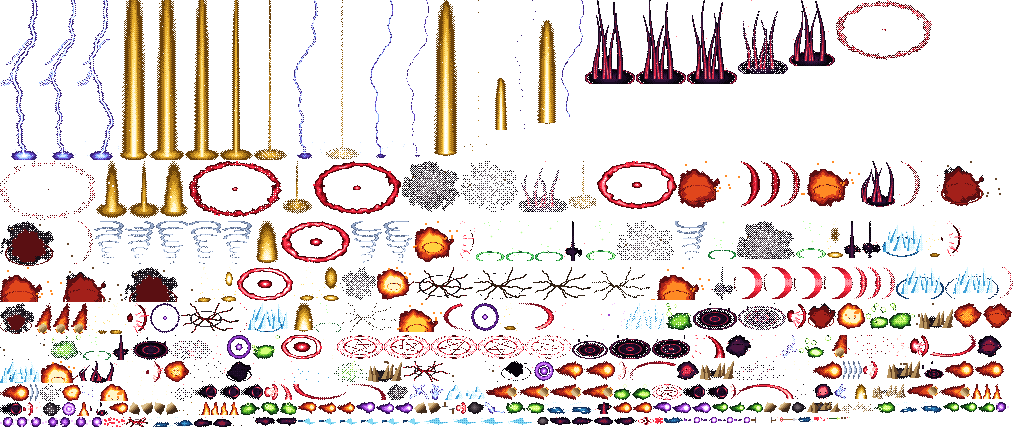
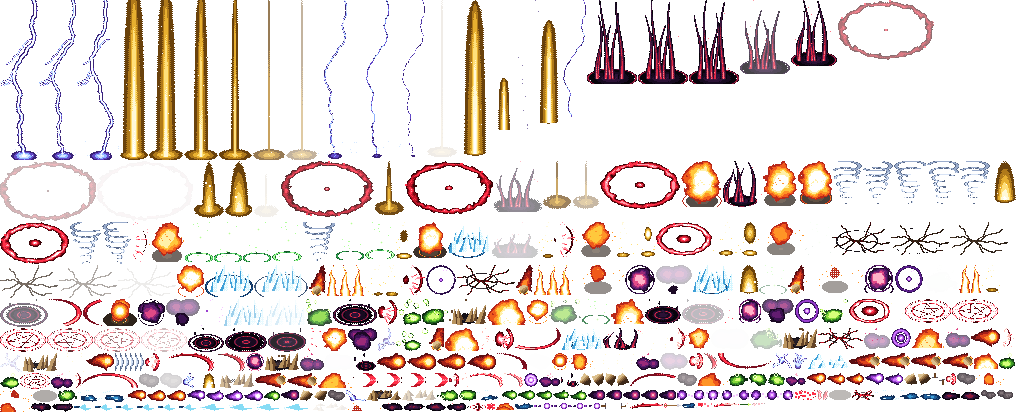
Spell effects, second pass: size, angle, cleaner animation, placement
Swipes and the moon wave lie flat over the floor, mirrored for blows to the
left and tilted a little instead of standing up on end. Explosions are a bright
fireball that climbs and burns out (no dark mass, no speckled smoke); shadow
bursts, the shadow orb and the shadow step are redrawn in violet with a crimson
rim. Fades are clean instead of scattered pixels, bands are less dithered.
In a fight every sheet snaps to the cast's pixel size (1x, 1.5x, 2x, 3x);
ground spells sit on the floor; burning ground has five tongues of fire.

Claude-Session: https://claude.ai/code/session_01U68ANvC5EPq8neAmbwhWjn

diff --git a/vesper/js/assets.js b/vesper/js/assets.js
@@ -201,8 +201,8 @@
   const SM = {
     // blows
     hit_slash: ['s_hit', 1, { dir: 1 }], v_impact: ['s_hit_heavy', 1.3, { dir: 1 }], hit_crit: ['s_crit', 1, { dir: 1 }], parry: ['s_hit_heavy', 1, { dir: 1 }],
-    v_blood: ['s_blood', 1.4, { dir: 1 }], v_slash: ['s_slash', 1.4, { dir: 1 }], katana: ['s_slash', 1.1, { dir: 1 }], arc_white: ['s_slash', 1.2, { dir: 1 }],
-    slash_arc_blood: ['s_slash_red', 1.1, { dir: 1 }], spin_slash: ['s_spin', 0.85], dissipate: ['s_smoke', 1], smoke_dark: ['s_smoke', 1.2], smoke_burst: ['s_smoke', 1.1],
+    v_blood: ['s_blood', 1.4, { dir: 1 }], v_slash: ['s_slash', 1.4], katana: ['s_slash', 1.1], arc_white: ['s_slash', 1.2],
+    slash_arc_blood: ['s_slash_red', 1.1], spin_slash: ['s_spin', 0.85], dissipate: ['s_smoke', 1], smoke_dark: ['s_smoke', 1.2], smoke_burst: ['s_smoke', 1.1],
     // earth and force
     shockwave: ['s_quake', 0.8], v_shock: ['s_quake', 0.9], v_crack: null, rock_burst: ['s_earth_burst', 0.75],
     // fire
@@ -220,13 +220,13 @@
     arrow: ['s_arrow', 1.33], dart: ['s_dart', 1.33], dagger: ['s_dagger', 1.33],
     // the Crowd Breaker sheets the films and fights named
     'cb:01_crimson_tide_cleave/caster': ['s_blood_wave', 1], 'cb:01_crimson_tide_cleave/target': ['s_crit', 1.4, { dir: 1 }], 'cb:01_crimson_tide_cleave/death': ['s_smoke', 1.4],
-    'cb:02_roaring_blade_nova/target': ['s_hit', 1.4, { dir: 1 }], 'cb:06_piercing_dash/target': ['s_slash', 1.4, { dir: 1 }], 'cb:218_sky_rend_star/target': ['s_hit_heavy', 1.4, { dir: 1 }],
+    'cb:02_roaring_blade_nova/target': ['s_hit', 1.4, { dir: 1 }], 'cb:06_piercing_dash/target': ['s_slash', 1.4], 'cb:218_sky_rend_star/target': ['s_hit_heavy', 1.4, { dir: 1 }],
     'cb:113_earthshaker_stance/target': ['s_spin', 1.2], 'cb:10_quake_stomp/target': ['s_earth_burst', 1.1], 'cb:10_quake_stomp/caster': ['s_quake', 1.1],
     'cb:08_meteor_rain/target': ['s_meteor', 0.9], 'cb:54_greater_fireball/target': ['s_fire_burst', 1.2], 'cb:183_frost_curtain/caster': ['s_frost_burst', 1.1],
     'cb:13_water_orb/target': ['s_frost_burst', 1.1], 'cb:101_skyfall_thunder/target': ['s_lightning', 0.9], 'cb:15_storm_orb/target': ['s_shock', 1.4],
     'cb:156_inner_flow_mending/caster': ['s_heal', 1.4], 'cb:11_ghostfire_hex/caster': ['s_rune', 1.4], 'cb:05_phantom_legion/caster': ['s_summon', 1.3],
     'cb:175_violet_veil/caster': ['s_vanish', 1.4], 'cb:12_golden_blessing/caster': ['s_charge', 1.4], 'cb:19_recall_beam/caster': ['s_holy_pillar', 1.0],
-    'cb:107_flashpoint_severance/target': ['s_slash', 1.4, { dir: 1 }], 'cb:43_cyclone_bolt/target': ['s_whirl', 1.2],
+    'cb:107_flashpoint_severance/target': ['s_slash', 1.4], 'cb:43_cyclone_bolt/target': ['s_whirl', 1.2],
   };
   A.SPELLMAP = SM;
   // The ground zones loop their own sheet.
@@ -239,19 +239,32 @@
     const m = SM[name]; if (m === null) return null; if (!m) return undefined;
     if (!m[0].startsWith('s_') || !spellData.fx[m[0]]) return undefined; return m;
   };
+  // Flat sheets (a sword's swipe, the moon wave) lie over the floor: mirrored for a blow to the left and tilted a little,
+  // never stood up on end. Turning sheets (the blows' splashes) take the blow's whole angle.
+  A.SPELLFLAT = { s_slash: 1, s_slash_red: 1, s_moon_wave: 1 };
+  A.SPELLDIR = { s_hit: 1, s_hit_heavy: 1, s_crit: 1, s_blood: 1 };
+  // In a fight the view sets A.gridK (its pixels per world unit): each sheet is drawn at a whole or half step of it, so
+  // its pixels are the cast's own size (or half again, or twice for the great spells), never an odd size in between.
+  A.gridK = 0;
+  const STEPS = [1, 1.5, 2, 3];
+  function snap(k) { if (!A.gridK) return k; const m = k / A.gridK; let best = 1; for (const s of STEPS) if (Math.abs(s - m) < Math.abs(best - m)) best = s; return A.gridK * best; }
   function spell(ctx, key, t, x, y, scale, alpha, angle, flip, dir) {
     const d = spellData.fx[key]; const n = d.frames.length; let i = Math.floor(t * d.fps);
     if (d.loop) i = ((i % n) + n) % n; else if (i >= n) return false;
     if (i < 0) return true;
     const f = d.frames[i]; if (!f) return true;
-    const k = scale || 1, ga = ctx.globalAlpha; if (alpha != null) ctx.globalAlpha = ga * alpha;
+    const k = snap(scale || 1), ga = ctx.globalAlpha; if (alpha != null) ctx.globalAlpha = ga * alpha;
     const sm = ctx.imageSmoothingEnabled; ctx.imageSmoothingEnabled = false;
-    const rot = dir || d.loop ? angle || 0 : 0;   // projectiles and blows turn; ground effects stand
+    const flat = A.SPELLFLAT[key], a = angle || 0, left = Math.cos(a) < 0;
+    // flat: mirror to the left, tilt by at most ~20 degrees; turning sheets and flights: the whole angle
+    const rot = flat ? Math.max(-0.35, Math.min(0.35, Math.atan2(Math.sin(a), Math.abs(Math.cos(a))) * 0.5)) * (left ? -1 : 1) : (dir || A.SPELLDIR[key] || d.loop) ? a : 0;
+    const mir = flat && left;
     const ox = f[5] * k, oy = f[6] * k, w = f[3] * k, h = f[4] * k;
-    if (!rot && !flip) ctx.drawImage(spellData.images[f[0]], f[1], f[2], f[3], f[4], Math.round(x + ox), Math.round(y + oy), Math.round(w), Math.round(h));
+    if (!rot && !flip && !mir) ctx.drawImage(spellData.images[f[0]], f[1], f[2], f[3], f[4], Math.round(x + ox), Math.round(y + oy), Math.round(w), Math.round(h));
     else {
       ctx.save(); ctx.translate(Math.round(x), Math.round(y));
-      if (rot) { const c = Math.cos(rot); ctx.rotate(rot); if (c < 0 && dir) ctx.scale(1, -1); }   // a blow struck to the left is mirrored, not drawn upside down
+      if (mir) ctx.scale(-1, 1);
+      if (rot) { ctx.rotate(rot); if (!flat && Math.cos(rot) < 0 && (dir || A.SPELLDIR[key])) ctx.scale(1, -1); }   // a splash struck to the left is mirrored, not drawn upside down
       if (flip) ctx.scale(-1, 1);
       ctx.drawImage(spellData.images[f[0]], f[1], f[2], f[3], f[4], ox, oy, w, h); ctx.restore();
     }

diff --git a/vesper/js/view.js b/vesper/js/view.js
@@ -415,7 +415,7 @@
         }
         case 'chain': R.chains.push({ pts: e.pts, t: 0 }); for (const p of e.pts.slice(1)) PK('s_shock', p[0], p[1], 22, 1.8); R.flash = 0.25; R.flashCol = '200,215,255'; R.shake = Math.max(R.shake, 4); break;
         case 'thunder': PK('s_lightning', e.x, e.y, 0, 2.0); FX({ kind: 'gring', x: e.x, y: e.y, life: 0.4, col: '#bcd4ff', r0: 6, r1: e.r * 1.4, w: 3 }); R.impactF = { t: 0, dur: 0.08, x: e.x, y: e.y, big: false }; R.shake = Math.max(R.shake, 9); break;
-        case 'strike': if (e.hand) { PK('s_quake', e.x, e.y, 0, 3.4); R.shake = Math.max(R.shake, 14); FX({ kind: 'gring', x: e.x, y: e.y, life: 0.6, col: '#ffffff', r0: 20, r1: 150, w: 4 }); FX({ kind: 'gring', x: e.x, y: e.y, life: 0.9, col: '#ff3048', r0: 10, r1: 110, w: 6 }); FX({ kind: 'gcrater', x: e.x, y: e.y, r: e.r || 50, life: 1.6 }); R.flash = Math.max(R.flash, 0.35); R.flashCol = '255,60,80'; R.punch = Math.max(R.punch || 0, 0.06); for (let i = 0; i < 18; i++) { const a = i / 18 * 6.28; P({ x: e.x + Math.cos(a) * 10, y: e.y + Math.sin(a) * 10, z: 4, vx: Math.cos(a) * (60 + Math.random() * 90), vy: Math.sin(a) * (60 + Math.random() * 90), vz: 120 + Math.random() * 160, life: 0.9, size: 2 + Math.random() * 2, col: i % 3 ? '#2a1a20' : '#ff5a6a', shape: 'sq', g: -520 }); } } if (!e.quiet) { if (e.fx === 'explosion_fire') PK('s_meteor_impact', e.x, e.y, 0, 1.6); else PK(e.fx || 'blast', e.x, e.y, e.fx === 'rock_burst' || e.fx === 'ice_shatter' || e.fx === 'frost_nova' ? 0 : 6, e.fx === 'poison_cloud' ? 1.6 : 2.2); FX({ kind: 'gring', x: e.x, y: e.y, life: 0.35, col: e.team === 'hero' ? '#ffffff' : '#ff8070', r0: 3, r1: e.r * 1.3, w: 2 }); R.shake = Math.max(R.shake, 3); } else PK(e.fx || 'blast', e.x, e.y, 6, 1.4); break;
+        case 'strike': if (e.hand) { PK('s_quake', e.x, e.y, 0, 3.4); R.shake = Math.max(R.shake, 14); FX({ kind: 'gring', x: e.x, y: e.y, life: 0.6, col: '#ffffff', r0: 20, r1: 150, w: 4 }); FX({ kind: 'gring', x: e.x, y: e.y, life: 0.9, col: '#ff3048', r0: 10, r1: 110, w: 6 }); FX({ kind: 'gcrater', x: e.x, y: e.y, r: e.r || 50, life: 1.6 }); R.flash = Math.max(R.flash, 0.35); R.flashCol = '255,60,80'; R.punch = Math.max(R.punch || 0, 0.06); for (let i = 0; i < 18; i++) { const a = i / 18 * 6.28; P({ x: e.x + Math.cos(a) * 10, y: e.y + Math.sin(a) * 10, z: 4, vx: Math.cos(a) * (60 + Math.random() * 90), vy: Math.sin(a) * (60 + Math.random() * 90), vz: 120 + Math.random() * 160, life: 0.9, size: 2 + Math.random() * 2, col: i % 3 ? '#2a1a20' : '#ff5a6a', shape: 'sq', g: -520 }); } } if (!e.quiet) { if (e.fx === 'explosion_fire') PK('s_meteor_impact', e.x, e.y, 0, 1.6); else PK(e.fx || 'blast', e.x, e.y, 0, e.fx === 'poison_cloud' ? 1.6 : 2.2); FX({ kind: 'gring', x: e.x, y: e.y, life: 0.35, col: e.team === 'hero' ? '#ffffff' : '#ff8070', r0: 3, r1: e.r * 1.3, w: 2 }); R.shake = Math.max(R.shake, 3); } else PK(e.fx || 'blast', e.x, e.y, 0, 1.4); break;
         case 'tick': R.float(String(e.dmg), e.x, e.y, 30, '#b0ff90', false); break;
         case 'cast': if (u) PK('s_rune', u.x, u.y, 0, 1.6); break;
         case 'vanish': PK('s_vanish', e.x, e.y, 0, 1.9); break;
@@ -593,7 +593,7 @@
         const life = Math.min(1, (z.t - z.delay) / 0.3, (z.delay + z.dur - z.t) / 0.4), tint = z.fx === 'burning_ground' ? '#ff7030' : z.fx === 'poison_cloud' ? '#80ff60' : z.fx === 'frost_nova' ? '#9ad8ff' : '#c070ff';
         ctx.save(); ground(ctx); const gr = ctx.createRadialGradient(z.x, z.y, 0, z.x, z.y, z.r); gr.addColorStop(0, rgba(tint, 0.35 * life)); gr.addColorStop(1, rgba(tint, 0)); ctx.fillStyle = gr; ctx.beginPath(); ctx.arc(z.x, z.y, z.r, 0, 7); ctx.fill();
         ctx.strokeStyle = rgba(tint, 0.5 * life); ctx.lineWidth = 1; ctx.setLineDash([4, 5]); ctx.lineDashOffset = -R.t * 10; ctx.beginPath(); ctx.arc(z.x, z.y, z.r, 0, 7); ctx.stroke(); ctx.setLineDash([]); ctx.restore();
-        if (z.fx) for (let i = 0; i < 3; i++) { const a = i * 2.1 + z.x, rr = z.r * 0.45, q = R.P(z.x + Math.cos(a) * rr, z.y + Math.sin(a) * rr * 0.8, 0); A.fx(ctx, (A.ZONEFX && A.ZONEFX[z.fx]) || (A.spellReady && A.spellReady() ? 's_shadow_pool' : z.fx), R.t + i * 0.3, q.x, q.y, Sh * 0.7 * Math.max(0.5, z.r / 40), 0.85 * life); }
+        if (z.fx) for (let i = 0; i < 5; i++) { const a = i * 1.26 + z.x, rr = z.r * (i % 2 ? 0.55 : 0.3), q = R.P(z.x + Math.cos(a) * rr, z.y + Math.sin(a) * rr * 0.8, 0); A.fx(ctx, (A.ZONEFX && A.ZONEFX[z.fx]) || (A.spellReady && A.spellReady() ? 's_shadow_pool' : z.fx), R.t + i * 0.3, q.x, q.y, Sh * 0.7 * Math.max(0.5, z.r / 40), 0.85 * life); }
       } else if (z.kind === 'tornado') {
         const q = R.P(z.x, z.y, 0);
         for (let i = 0; i < 6; i++) { const y = q.y - i * 9 * Sh, rw = (8 + i * 4) * Sh, a = R.t * 9 + i; ctx.strokeStyle = rgba(i % 2 ? '#ffffff' : '#c8d8ff', 0.55); ctx.lineWidth = 2 * R.dpr; ctx.beginPath(); ctx.ellipse(q.x + Math.sin(a) * 3 * Sh, y, rw, rw * 0.3, 0, a, a + 4.2); ctx.stroke(); }
@@ -956,7 +956,9 @@
     if (R.camFix) { const c = godCam(s); R.hcam.x = c.x; R.hcam.y = c.y; return; }
     const k = VS.arenaOf(s).kind === 'grid' ? 1 : 0.6; R.hcam.x = s.hero.x * k; R.hcam.y = s.hero.y * k;
   };
-  R.drawFight = function (ctx, s, dt) {
+  // The spell forge's sheets snap to the fight's pixel size while the fight is drawn (A.gridK; assets.js).
+  R.drawFight = function (ctx, s, dt) { VS.A.gridK = R.Sh(); try { return drawFight0(ctx, s, dt); } finally { VS.A.gridK = 0; } };
+  function drawFight0(ctx, s, dt) {
     const st = s.def;
     if (!s.staged) R.follow(s, dt);
     // Inside the warp tunnel nothing of the arena shows: draw only the tunnel.

diff --git a/vesper/tools_spells.py b/vesper/tools_spells.py
@@ -18,6 +18,9 @@ PITCH = 0.5          # the fight camera's ground squash (view.js HELI.pitch)
 def hexc(h): h = h.lstrip('#'); return [int(h[i:i + 2], 16) for i in (0, 2, 4)]
 def ramp(*cols): return np.array([hexc(c) for c in cols], np.uint8)
 FIRE = ramp('#5a0f12', '#a3201a', '#e0461c', '#ff8a24', '#ffd23f', '#fff6c8')
+FIRE2 = ramp('#b8281a', '#f05a1c', '#ff9426', '#ffc83c', '#fff0a8', '#ffffff')
+SMOKE2 = ramp('#4a4248', '#655a60', '#83777b', '#a69a9c')
+SHADOW2 = ramp('#1c0a26', '#3a1250', '#621c70', '#9a2a78', '#e04a86', '#ffb0c8')
 SMOKE = ramp('#151017', '#251d25', '#3a3039', '#544850', '#6e6168')
 FROST = ramp('#12305a', '#1f5f9a', '#3fa0d8', '#86dcf5', '#d4f6ff', '#ffffff')
 STORM = ramp('#3a2378', '#6248c8', '#8fb4ff', '#d6e8ff', '#ffffff')
@@ -35,7 +38,7 @@ HEAL = ramp('#145a2a', '#2a9a48', '#5ad86a', '#b0ff9a', '#f0ffe0')
 
 BAYER = np.array([[0, 8, 2, 10], [12, 4, 14, 6], [3, 11, 1, 9], [15, 7, 13, 5]]) / 16 - 0.5
 
-def paint(val, pal, lo=0.12, dither=0.7):
+def paint(val, pal, lo=0.12, dither=0.3):
     """Energy 0..1 to RGBA: transparent below lo, then the ramp in bands with an ordered dither."""
     h, w = val.shape; b = BAYER[np.arange(h)[:, None] % 4, np.arange(w)[None, :] % 4]
     v = (val - lo) / (1 - lo); n = len(pal)
@@ -50,12 +53,9 @@ def over(a, b):
     m = b[..., 3:4] > 0; return np.where(m, b, a)
 
 def dissolve(img, k, seed=0):
-    """Fade pixel art out by dropping pixels in a dither order (k 0 = whole, 1 = gone)."""
+    """Fade out as a whole (k 0 = solid, 1 = gone): a clean fade, no scattered pixels."""
     if k <= 0: return img
-    h, w = img.shape[:2]; r = np.random.default_rng(seed).random((h, w)) * 0.35
-    b = BAYER[np.arange(h)[:, None] % 4, np.arange(w)[None, :] % 4] + 0.5
-    keep = (b * 0.65 + r) >= k
-    out = img.copy(); out[..., 3] = np.where(keep, out[..., 3], 0); return out
+    out = img.copy(); out[..., 3] = (out[..., 3].astype(np.float32) * max(0.0, 1 - k)).astype(np.uint8); return out
 
 # ---- fields ---------------------------------------------------------------------------------------------
 def grid(w, h): y, x = np.mgrid[0:h, 0:w]; return x + 0.5, y + 0.5
@@ -807,6 +807,155 @@ def _():
             wy = cy - t * 28; v = np.maximum(v, np.clip(1 - np.hypot((x - bx - math.sin(t * 6) * 2) / 1.6, (y - wy) / 4), 0, 1) * (1 - t))
         img = over(img, paint(v, SHADOW, lo=0.3))
         out.append(dissolve(img, fade, f))
+    return out
+
+# ===== the second pass (the author, 2026-11-20: resize, re-angle, cleaner animation and placement) =====
+# Later definitions replace the first ones under the same name.
+
+def swipe(W, H, n, pal, rx, ry, thick, seed, sweep=2, a0=-2.5, a1=0.55):
+    """A sword's swipe seen from the fight camera: a flat arc around the target (an ellipse, squashed like the floor),
+    swept from behind to the front in two frames, white along its outer edge, then thinning away. Struck to the right;
+    the game mirrors it for blows to the left and tilts it a little, never stands it up."""
+    out = []; x, y = grid(W, H); cx, cy = W / 2, H / 2
+    for f in range(n):
+        prog = min(1, (f + 1) / sweep); fade = max(0, (f + 1 - sweep) / (n - sweep))
+        d = ell(x, y, cx, cy, rx, ry); a = np.arctan2((y - cy) / ry, (x - cx) / rx)
+        head = a0 + (a1 - a0) * prog; tail = a0 + (a1 - a0) * min(prog, fade * 1.2)
+        inarc = (a >= tail) & (a <= head)
+        span = max(head - tail, 1e-3); along = np.clip((a - tail) / span, 0, 1)
+        th = (thick / rx) * (0.35 + 0.65 * np.sin(np.pi * along)) * (1 - fade * 0.6)
+        band = np.clip(1 - np.abs(d - (1 - th / 2)) / (th / 2 + 0.02), 0, 1)
+        edge = np.exp(-((d - 0.97) / 0.035) ** 2)
+        v = inarc * np.maximum(band * (0.55 + 0.35 * along), edge * (band > 0.05) * 1.0)
+        out.append(dissolve(paint(np.clip(v, 0, 1), pal, lo=0.2, dither=0.15), fade * 0.85))
+    return out
+
+@fx('s_slash', 24, (22, 12))
+def _(): return swipe(44, 24, 6, HIT, 19, 9, 6.5, 1)
+@fx('s_slash_red', 22, (28, 15))
+def _(): return swipe(56, 30, 7, BLOOD, 25, 12, 8.5, 2)
+
+@fx('s_moon_wave', 14, (16, 9), loop=True)
+def _():
+    """The crescent wave in flight, flat over the floor: a blood-red moon blade, convex forward, white on its edge."""
+    out = []; W, H = 30, 18; x, y = grid(W, H); cx, cy = 10, 9
+    for f in range(4):
+        d1 = ell(x, y, cx, cy, 14, 7.5); d2 = ell(x, y, cx - 5, cy, 13, 7.5)
+        cres = (d1 < 1) & (d2 > 1) & (x > cx - 2)
+        tips = np.clip(1 - np.abs(y - cy) / 7.5, 0, 1)
+        edge = np.exp(-((d1 - 0.93) / 0.06) ** 2) * (x > cx)
+        v = cres * (0.45 + 0.3 * tips); v = np.maximum(v, edge * tips * (0.95 + 0.05 * math.sin(f * 2)))
+        trail = np.exp(-((d1 - 0.7) / 0.12) ** 2) * (x < cx + 6) * (x > 1) * tips * 0.32 * (0.6 + 0.4 * vnoise(W, H, 3, 61, oy=f * 4))
+        out.append(paint(np.clip(np.maximum(v, trail), 0, 1), BLOOD, lo=0.18, dither=0.15))
+    return out
+
+def puffs(W, H, n, pal, seed, cx, cy, count, r0, r1, rise, start=0.25):
+    """Round smoke puffs that swell, rise and fade (smoke after a blast, a shadow step)."""
+    rng = np.random.default_rng(seed); P = [(rng.uniform(-1, 1), rng.uniform(-0.4, 0.6), rng.uniform(0.7, 1.2)) for _ in range(count)]
+    x, y = grid(W, H); out = []
+    for f in range(n):
+        k = (f + 1) / n
+        if k < start: out.append(blank(W, H)); continue
+        kk = (k - start) / (1 - start); v = np.zeros((H, W))
+        for (ox, oy, s) in P:
+            r = (r0 + (r1 - r0) * kk) * s; px = cx + ox * r1 * 0.9; py = cy - oy * r1 * 0.4 - rise * kk
+            d = np.hypot(x - px, (y - py) * 1.15) / r
+            v = np.maximum(v, np.clip(1 - d, 0, 1) ** 0.6 * (0.55 + 0.45 * (1 - (y - py + r) / (2 * r + 1e-6))))
+        out.append(dissolve(paint(np.clip(v, 0, 1) * 0.9, pal, lo=0.15, dither=0.1), max(0, kk - 0.45) * 1.8))
+    return out
+
+def blast(W, H, n, seed, size, cx, cy, pal=FIRE2, smoke=None, embers=10):
+    """An explosion: a white flash, a fireball that swells and climbs, embers thrown up, a flat shock ring on the floor,
+    then a few grey puffs that rise and fade. No dark mass left behind."""
+    x, y = grid(W, H); rng = np.random.default_rng(seed)
+    E = [(rng.uniform(-math.pi * 0.95, -math.pi * 0.05), rng.uniform(0.6, 1.2)) for _ in range(embers)]
+    sm = puffs(W, H, n, smoke, seed + 1, cx, cy - size * 0.9, 3, size * 0.25, size * 0.45, size * 0.7, start=0.55) if smoke is not None else [blank(W, H)] * n
+    out = []
+    for f in range(n):
+        k = (f + 1) / n; nz = fbm(W, H, max(3, size / 3), seed, oy=f * 2.5)
+        swell = min(1, k * 3.2); cool = max(0, (k - 0.3) / 0.7)
+        rr = size * (0.35 + 0.65 * swell) * (1 - cool * 0.55); lift = size * 0.45 * k
+        d = ell(x, y, cx, cy - rr * 0.8 - lift * 0.5, rr, rr * 1.05)
+        heat = np.clip((1 - d) * 1.5 + (nz - 0.5) * 0.7, 0, 1) * (1.1 - cool * 0.9)
+        img = paint(np.clip(heat, 0, 1), pal, lo=0.22 + 0.25 * cool, dither=0.15)
+        img = over(sm[f], img) if cool > 0.5 else over(img, sm[f])
+        if k < 0.6:
+            ring = np.exp(-((ell(x, y, cx, cy, size * 1.4 * k / 0.6 + 2, (size * 1.4 * k / 0.6 + 2) * PITCH) - 1) / 0.06) ** 2) * (1 - k / 0.6)
+            img = over(paint(ring, pal, lo=0.35, dither=0), img)
+        for (a, sp) in E:
+            t = k * 0.9; px = cx + math.cos(a) * size * 1.6 * sp * t; py = cy - size * 0.6 + math.sin(a) * size * 1.4 * sp * t + size * 1.2 * t * t
+            if k < 0.85: sq(img, px, py, 1, pal[4] if k < 0.4 else pal[2])
+        if f == 0:
+            fl = np.clip(1.2 - ell(x, y, cx, cy - size * 0.4, size * 0.45, size * 0.45), 0, 1); img = over(img, paint(fl, pal, lo=0.3, dither=0))
+        out.append(img)
+    return out
+
+@fx('s_fire_burst', 18, (26, 50))
+def _(): return blast(52, 56, 10, 91, 15, 26, 50)
+@fx('s_meteor_impact', 16, (40, 74))
+def _():
+    a = blast(80, 80, 12, 92, 22, 40, 74, embers=16)
+    x, y = grid(80, 80)
+    for f, img in enumerate(a):   # a scorched crater under it, cooling
+        k = (f + 1) / 12; sc = np.clip(1 - ell(x, y, 40, 74, 22, 11), 0, 1) * (0.9 - k * 0.5)
+        c = paint(sc * 0.5, EARTH, lo=0.1, dither=0); c = dissolve(c, k * 0.7); a[f] = over(c, img)
+    return a
+
+@fx('s_shadow_burst', 16, (26, 46))
+def _():
+    """Shadow bursting out: a violet-black blast with a crimson rim, wisps climbing out of it, a ring on the floor."""
+    W, H = 52, 50; x, y = grid(W, H); cx, cy = 26, 46; out = []
+    sm = puffs(W, H, 10, SHADOW2, 102, cx, cy - 10, 5, 4, 11, 12, start=0.3)
+    for f in range(10):
+        k = (f + 1) / 10; nz = fbm(W, H, 4, 101, oy=f * 2)
+        rr = 14 * (0.4 + 0.6 * min(1, k * 3)) * (1 - max(0, k - 0.4) * 0.8)
+        d = ell(x, y, cx, cy - rr * 0.8, rr, rr)
+        core = np.clip((1 - d) * 1.4 + (nz - 0.5) * 0.6, 0, 1) * (1 - max(0, k - 0.3) * 1.2)
+        img = over(sm[f], paint(np.clip(core, 0, 1), SHADOW2, lo=0.18, dither=0.1))
+        rim = np.exp(-((d - 1) / 0.08) ** 2) * (1 - k) * (k < 0.7)
+        img = over(img, paint(rim, SHADOW2, lo=0.45, dither=0))
+        if k < 0.6:
+            ring = np.exp(-((ell(x, y, cx, cy, 24 * k / 0.6 + 2, (24 * k / 0.6 + 2) * PITCH) - 1) / 0.07) ** 2) * (1 - k / 0.6)
+            img = over(paint(ring, SHADOW2, lo=0.35, dither=0), img)
+        out.append(img)
+    return out
+
+@fx('s_shadow_bolt', 14, (19, 8), loop=True)
+def _():
+    """A ball of shadow in flight: a hot magenta heart in a violet orb, trailing dark smoke."""
+    out = []; W, H = 26, 16; x, y = grid(W, H); cx, cy = 19, 8
+    for f in range(6):
+        nz = fbm(W, H, 4, 21, ox=f * 3.5)
+        dx = cx - x; along = np.clip(dx / 18, 0, 1)
+        tail = np.exp(-((y - cy) / (4.5 * (1 - along * 0.6) + 0.5)) ** 2) * (1 - along) * (dx > 0) * (0.45 + 0.6 * nz)
+        d = np.hypot(x - cx, y - cy); orb = np.clip(1.15 - d / 5.2, 0, 1)
+        out.append(paint(np.clip(np.maximum(orb, tail * 0.6), 0, 1), SHADOW2, lo=0.14, dither=0.15))
+    return out
+
+@fx('s_vanish', 16, (18, 34))
+def _():
+    """Shadow step: a burst of violet-black smoke where the body was, crimson motes thrown out of it."""
+    W, H = 36, 38; out = puffs(W, H, 9, SHADOW2, 291, 18, 32, 6, 4, 10, 10, start=0.0)
+    rng = np.random.default_rng(292); M = [(rng.uniform(0, math.tau), rng.uniform(0.6, 1.1)) for _ in range(8)]
+    for f, img in enumerate(out):
+        k = (f + 1) / 9
+        for (a, sp) in M:
+            if k < 0.8: sq(img, 18 + math.cos(a) * 16 * sp * k, 26 + math.sin(a) * 8 * sp * k - 10 * k, 1, SHADOW2[5] if k < 0.4 else SHADOW2[4])
+    return out
+
+@fx('s_smoke', 14, (16, 22))
+def _(): return puffs(32, 26, 8, SMOKE2, 81, 16, 22, 4, 3, 8, 8, start=0.0)
+
+@fx('s_flames', 12, (12, 30), loop=True)
+def _():
+    """A tongue of fire on burning ground."""
+    out = []; W, H = 24, 32; x, y = grid(W, H)
+    for f in range(8):
+        nz = fbm(W, H, 4, 231, oy=f * 3.5)
+        up = np.clip((30 - y) / 26, 0, 1)
+        shape = np.clip(1 - np.abs(x - 12 - np.sin(y * 0.4 + f) * up * 1.5) / (7 * (1 - up) ** 0.8 + 0.4), 0, 1) * (y < 31)
+        v = np.clip(shape * 1.35 + (nz - 0.55) * 0.8 - up * 0.45, 0, 1)
+        out.append(paint(v, FIRE2, lo=0.22, dither=0.15))
     return out
 
 # ---- pack ------------------------------------------------------------------------------------------------------
